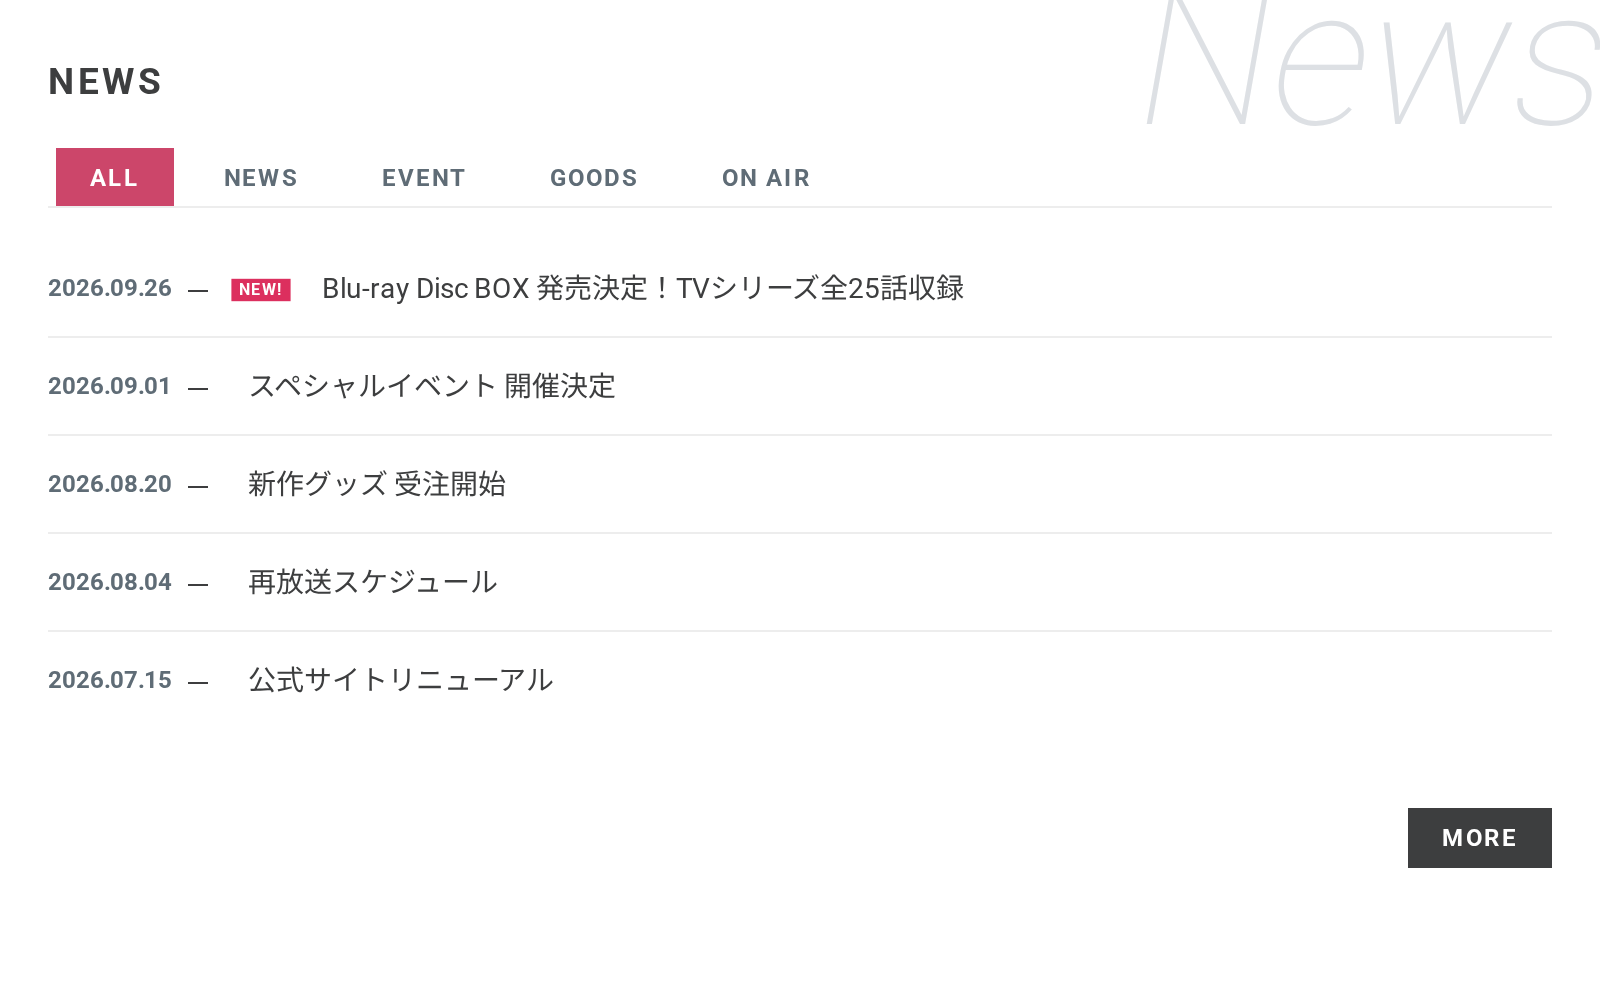
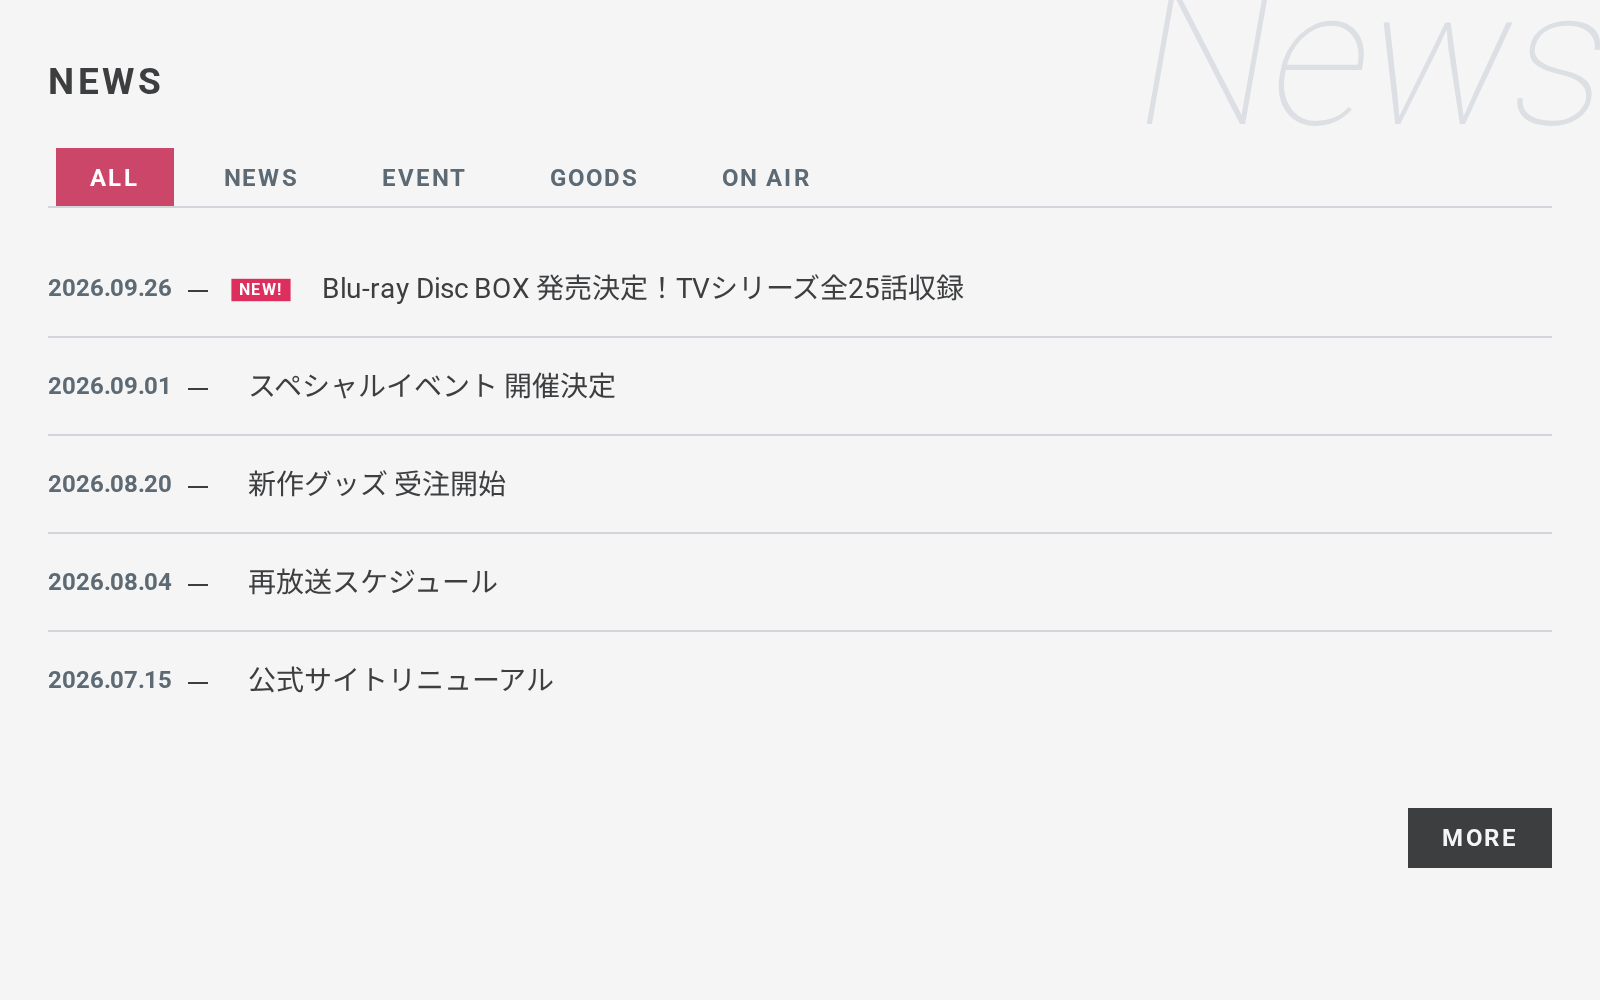
Light theme: soft white instead of pure white
The light page moves from #fff to #f5f5f6, with surface (#e7e8ea), surface-2, border (#d2d5d9) and watermark stepped down with it, so the layout loses its glare and edges read. Text tokens that dropped under 4.5:1 on the greyer surface are nudged a step darker: muted, info text, and the Utaha, Izumi, Michiru, Eriri and Tomoya accent text. Dark mode is unchanged. Screenshots and the OG card are regenerated.

Claude-Session: https://claude.ai/code/session_01Sd1TnqxBeTmbhC6j3EFBgg

diff --git a/tokens.css b/tokens.css
@@ -6,28 +6,28 @@
 :root {
   /* ---- colour ---- */
   --bless-color-text: #3d3e3f;
-  --bless-color-text-muted: #5f6c76; /* 5.4:1 on bg, 4.6:1 on surface */
-  --bless-color-bg: #fff;
-  --bless-color-surface: #ededed;
-  --bless-color-surface-2: #ebebeb;
-  --bless-color-watermark: #dde0e4;
+  --bless-color-text-muted: #5d6a74; /* 5.0:1 on bg, 4.5:1 on surface */
+  --bless-color-bg: #f5f5f6; /* soft white: the glare off pure white */
+  --bless-color-surface: #e7e8ea;
+  --bless-color-surface-2: #e4e5e7;
+  --bless-color-watermark: #dcdfe3;
 
   --bless-color-accent: #cc466a; /* fills — Megumi's petal (#e85078) deepened to carry white at 4.5:1; the default palette */
   --bless-color-accent-soft: #f5a0b8; /* highlights, hover fills */
   --bless-color-accent-2: #ee6f92;
   --bless-color-accent-text: #b63c5c; /* accent as *text* on bg/surface — ≥4.5:1 */
   --bless-color-danger: #cc2020; /* destructive fills, invalid borders */
-  --bless-color-danger-text: #cc2020; /* error text on bg/surface — 5.5:1 on white; lifted in dark */
+  --bless-color-danger-text: #cc2020; /* error text on bg/surface — ≥4.5:1; lifted in dark */
   --bless-color-badge: #dc2f5e; /* NEW! pill */
   --bless-color-warning: #ffa800;
   --bless-color-success: #c0e722;
   --bless-color-info: #9650e6;
-  --bless-color-info-text: #9a41ff; /* info as text — 4.6:1 on white; lifted in dark */
+  --bless-color-info-text: #893ae3; /* info as text — ≥4.5:1 on bg and surface; lifted in dark */
 
   --bless-color-on-accent: #fff;
   --bless-color-on-text: var(--bless-color-bg); /* text on a --bless-color-text fill */
   --bless-color-on-light: #1a1b1d; /* text on warning / success fills (too pale for white) */
-  --bless-color-border: #d9dcdf; /* 1.4:1 on bg — the same step as dark mode's border, so edges read in both */
+  --bless-color-border: #d2d5d9; /* 1.4:1 on bg — the same step as dark mode's border, so edges read in both */
   --bless-color-rule: var(--bless-color-text);
   --bless-color-backdrop: rgb(0 0 0 / 0.6); /* dialog / sheet scrim */
   --bless-color-media-bg: #1a1b1d; /* lightbox panel, always dark */
@@ -204,7 +204,7 @@
   --bless-color-accent-2: #ea5a52;
   --bless-color-badge: #d02020;
   --bless-color-chart-1: #e03028;
-  --bless-color-accent-text: #cc2c24;
+  --bless-color-accent-text: #c62b23;
 }
 :root[data-palette="izumi"] {
   --bless-color-accent: #367ab1;
@@ -212,7 +212,7 @@
   --bless-color-accent-2: #63a6db;
   --bless-color-badge: #2e7aba;
   --bless-color-chart-1: #4090d0;
-  --bless-color-accent-text: #3270a2;
+  --bless-color-accent-text: #306d9d;
 }
 :root[data-palette="michiru"] {
   --bless-color-accent: #996492;
@@ -220,7 +220,7 @@
   --bless-color-accent-2: #c793c0;
   --bless-color-badge: #9e619a;
   --bless-color-chart-1: #b878b0;
-  --bless-color-accent-text: #8c5b86;
+  --bless-color-accent-text: #885882;
 }
 /* Eriri's petal (#c8e018) is too light for white text; it becomes accent-soft and the ink darkens */
 :root[data-palette="eriri"] {
@@ -229,7 +229,7 @@
   --bless-color-accent-2: #a3bf0a;
   --bless-color-badge: #6b7f00;
   --bless-color-chart-1: #7f9600;
-  --bless-color-accent-text: #627300;
+  --bless-color-accent-text: #5f7000;
 }
 /* Tomoya — the centre of the circle, not a petal; the mark stays five */
 :root[data-palette="tomoya"] {
@@ -238,7 +238,7 @@
   --bless-color-accent-2: #7688f9;
   --bless-color-badge: #4a5fe0;
   --bless-color-chart-1: #5870f8;
-  --bless-color-accent-text: #4c60d5;
+  --bless-color-accent-text: #4a5dcf;
 }
 
 /* ---- accent as text, dark ----

diff --git a/docs/guide/palettes.md b/docs/guide/palettes.md
@@ -24,11 +24,11 @@ The petal is the character's colour, used on the mark and the swatches. Fills us
 | Palette   | Petal                                                                                                                  | Accent    | As text   | Note                                                                           |
 | --------- | ---------------------------------------------------------------------------------------------------------------------- | --------- | --------- | ------------------------------------------------------------------------------ |
 | `megumi`  | <span style="display:inline-block;width:14px;height:14px;background:#e85078;transform:skewX(-10deg)"></span> `#e85078` | `#cc466a` | `#b63c5c` | top petal — the default, no attribute needed                                   |
-| `utaha`   | <span style="display:inline-block;width:14px;height:14px;background:#e03028;transform:skewX(-10deg)"></span> `#e03028` | `#e03028` | `#cc2c24` | right petal — red                                                              |
-| `izumi`   | <span style="display:inline-block;width:14px;height:14px;background:#4090d0;transform:skewX(-10deg)"></span> `#4090d0` | `#367ab1` | `#3270a2` | lower-right petal — sky blue                                                   |
-| `michiru` | <span style="display:inline-block;width:14px;height:14px;background:#b878b0;transform:skewX(-10deg)"></span> `#b878b0` | `#996492` | `#8c5b86` | lower-left petal — mauve                                                       |
-| `eriri`   | <span style="display:inline-block;width:14px;height:14px;background:#c8e018;transform:skewX(-10deg)"></span> `#c8e018` | `#6b7e00` | `#627300` | left petal — `#c8e018` is too pale to carry white, so it becomes `accent-soft` |
-| `tomoya`  | <span style="display:inline-block;width:14px;height:14px;background:#5870f8;transform:skewX(-10deg)"></span> `#5870f8` | `#546aec` | `#4c60d5` | the founder's — indigo, not on the mark                                        |
+| `utaha`   | <span style="display:inline-block;width:14px;height:14px;background:#e03028;transform:skewX(-10deg)"></span> `#e03028` | `#e03028` | `#c62b23` | right petal — red                                                              |
+| `izumi`   | <span style="display:inline-block;width:14px;height:14px;background:#4090d0;transform:skewX(-10deg)"></span> `#4090d0` | `#367ab1` | `#306d9d` | lower-right petal — sky blue                                                   |
+| `michiru` | <span style="display:inline-block;width:14px;height:14px;background:#b878b0;transform:skewX(-10deg)"></span> `#b878b0` | `#996492` | `#885882` | lower-left petal — mauve                                                       |
+| `eriri`   | <span style="display:inline-block;width:14px;height:14px;background:#c8e018;transform:skewX(-10deg)"></span> `#c8e018` | `#6b7e00` | `#5f7000` | left petal — `#c8e018` is too pale to carry white, so it becomes `accent-soft` |
+| `tomoya`  | <span style="display:inline-block;width:14px;height:14px;background:#5870f8;transform:skewX(-10deg)"></span> `#5870f8` | `#546aec` | `#4a5dcf` | the founder's — indigo, not on the mark                                        |
 
 ## Use
 

diff --git a/docs/guide/tokens.md b/docs/guide/tokens.md
@@ -35,7 +35,7 @@ Two corners, one rule — see [Conventions](./conventions#shape-cut-or-petal). `
 
 ## Colour pairs
 
-- `accent-text` — the accent **as text** on `bg`/`surface`: darkened per palette to ≥4.5:1 (links, active nav, selected rows). Fills keep `accent`; white on it is 3.6:1, which is AA for UI components and large text, not for body copy — so never set small text in `accent` itself.
+- `accent-text` — the accent **as text** on `bg`/`surface`: darkened per palette to ≥4.5:1 (links, active nav, selected rows). Fills use `accent`, deepened per palette to carry white text at 4.5:1; as text on the page it's too light, so use `accent-text`.
 - `danger` / `danger-text` — `danger` is the fill (destructive buttons, invalid borders); `danger-text` is error copy, ≥4.5:1 on `bg` and `surface`. They're the same red in light mode; dark mode lifts the text one so it stays readable on the dark greys, where no single red could be both.
 - `info` / `info-text` — the same split: `info-text` for info as text (outline badges, alert titles).
 - `on-accent` — text on any accent / danger / info fill (white).
